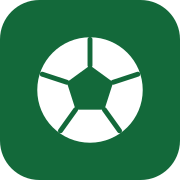
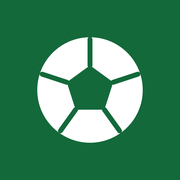
Ícones do app instalado sem cantos pretos no iPhone e recortados certo no Android
O apple-icon e o ícone maskable tinham cantos transparentes: o iOS pinta
transparência de preto e o Android recorta o ícone em formato próprio.
Agora os dois são quadrados cheios em verde. O manifest ganha id e scope.

Claude-Session: https://claude.ai/code/session_01HGMd1havZcnySJARLJuf7G

diff --git a/src/app/manifest.ts b/src/app/manifest.ts
@@ -5,7 +5,9 @@ export default function manifest(): MetadataRoute.Manifest {
     name: "Sem Panela",
     short_name: "Sem Panela",
     description: "A pelada organizada e paga em dia.",
+    id: "/",
     start_url: "/grupos",
+    scope: "/",
     display: "standalone",
     background_color: "#f4f6f5",
     theme_color: "#13693a",
@@ -13,7 +15,7 @@ export default function manifest(): MetadataRoute.Manifest {
     icons: [
       { src: "/icon-192.png", sizes: "192x192", type: "image/png" },
       { src: "/icon-512.png", sizes: "512x512", type: "image/png" },
-      { src: "/icon-512.png", sizes: "512x512", type: "image/png", purpose: "maskable" },
+      { src: "/icon-maskable-512.png", sizes: "512x512", type: "image/png", purpose: "maskable" },
     ],
   };
 }
